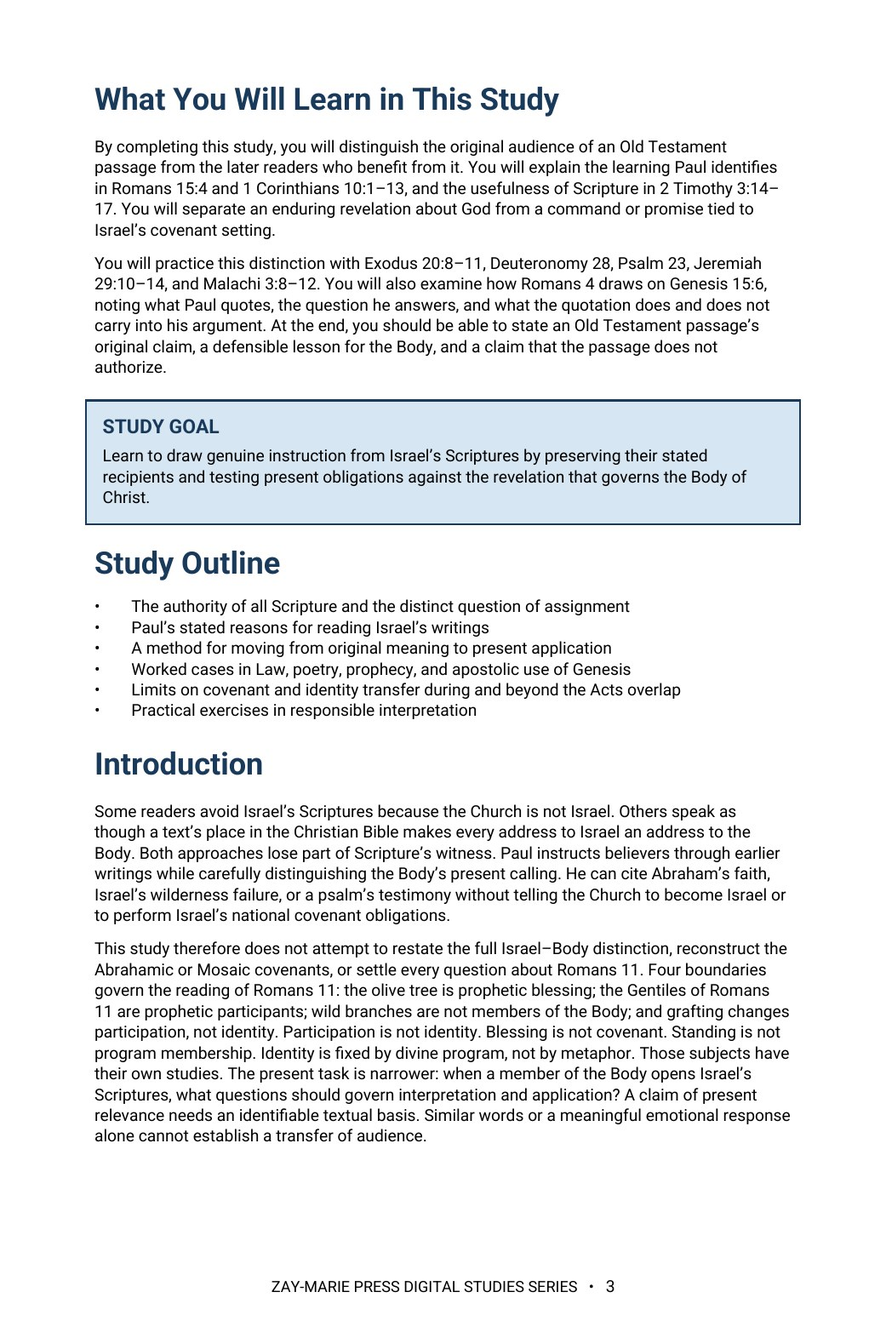
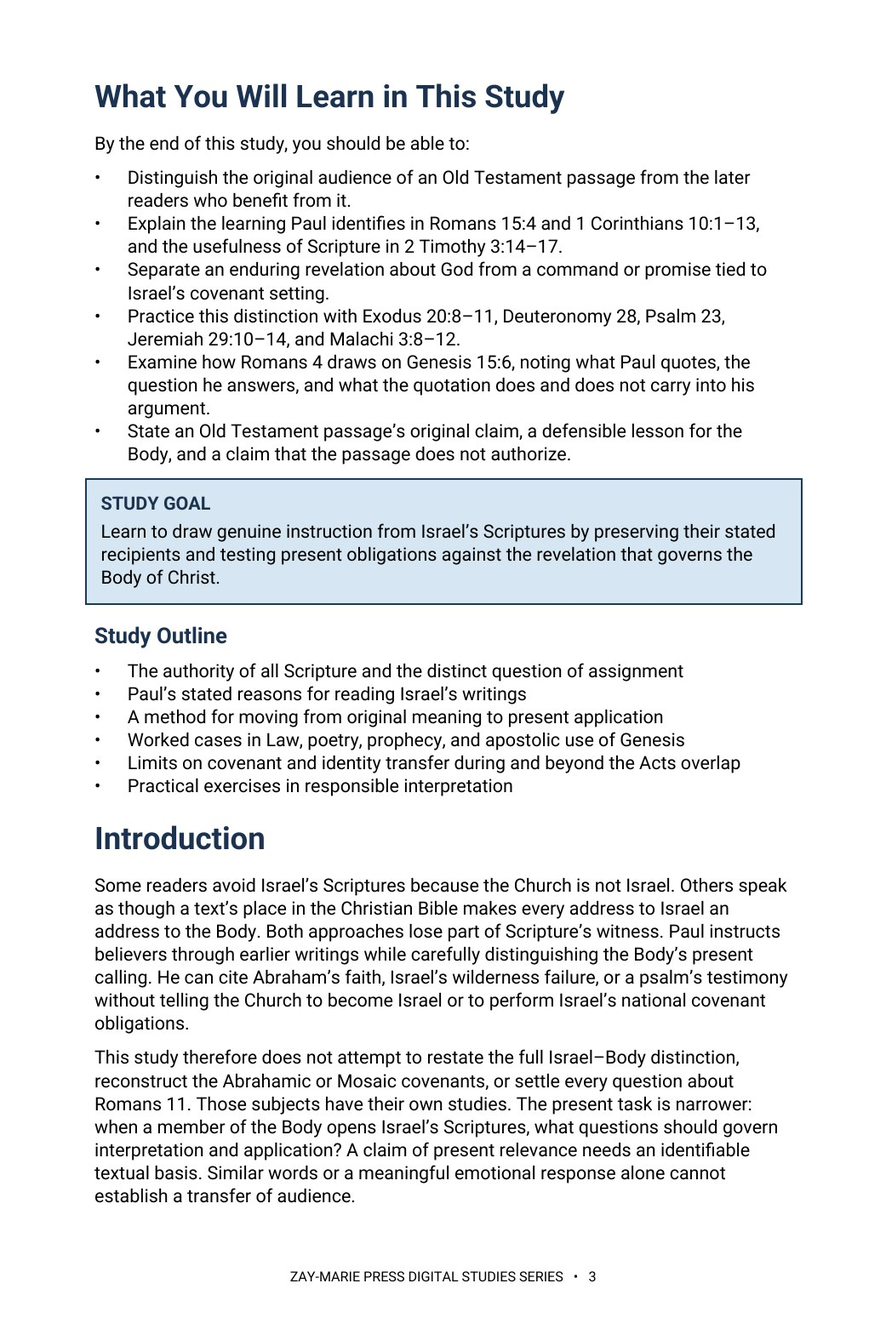
Study 39: page count 22, rebuilt preview pages and trackers for Roboto 10 pt build on current page
Claude-Session: https://claude.ai/code/session_01HC7bs9KYP2scp4hCL6DkTp

Changed region(s): [[0.0922, 0.0615, 0.9222, 0.9219], [0.3074, 0.9526, 0.6455, 0.9834]]

diff --git a/study-39-the-churchs-relationship-to-israels-scriptures.html b/study-39-the-churchs-relationship-to-israels-scriptures.html
@@ -2,13 +2,13 @@
 <html lang="en"><head><meta charset="utf-8"><meta name="viewport" content="width=device-width,initial-scale=1"><title>The Church’s Relationship to Israel’s Scriptures | Zay-Marie Press</title><meta name="description" content="Learn how the Body reads and applies Israel’s Scriptures without transferring Israel’s identity, covenants, or promises. Preview Study 39 from Zay-Marie Press."><link rel="stylesheet" href="styles.css?v=20260921-4"><link rel="icon" type="image/png" href="assets/zay-marie-press-favicon.png"><style>
 .study-detail-page{background:#fff;color:#252525}.detail-hero{background:linear-gradient(135deg,#f8f5ec,#e3ece2);padding:58px 0}.detail-hero-grid{display:grid;grid-template-columns:minmax(250px,.72fr) minmax(0,1.28fr);gap:58px;align-items:center}.detail-cover{max-width:390px;margin:auto}.detail-cover img{display:block;width:100%;height:auto;box-shadow:0 14px 36px rgba(8,45,69,.18)}.detail-hero h1{font-size:clamp(2.7rem,5vw,4.7rem);line-height:1.02;margin:8px 0 10px;color:#143823}.detail-subtitle{font-family:Georgia,serif;font-size:1.35rem;font-weight:700;color:#082d45;margin:0 0 7px}.detail-kicker{font-family:Georgia,serif;font-style:italic;font-size:1.05rem;color:#4a4a44;margin:0 0 22px}.detail-copy{font-size:1.08rem;line-height:1.65;max-width:760px}.detail-buyline{display:flex;align-items:center;gap:18px;flex-wrap:wrap;margin-top:25px}.detail-price{font-family:Georgia,serif;font-size:2rem;font-weight:700;color:#143823}.detail-format,.preview-card .page-no{font-family:Arial,sans-serif;font-size:.76rem;font-weight:700;letter-spacing:.1em;text-transform:uppercase;color:#176b3a}.detail-button{display:inline-block;background:#176b3a;color:#fff;padding:13px 22px;font-family:Arial,sans-serif;font-size:.8rem;font-weight:700;letter-spacing:.07em;text-transform:uppercase}.detail-button.pending{opacity:.72;cursor:default}.detail-section{padding:66px 0}.detail-section.soft{background:#f6f7f2}.detail-section.cream{background:#faf8f2}.detail-section h2{color:#143823;margin:6px 0 18px;font-size:clamp(2rem,3.4vw,3rem)}.detail-section .lead{max-width:920px;font-size:1.1rem;line-height:1.62}.study-distinction{max-width:920px;margin-top:28px;margin-bottom:28px;padding:26px 28px;background:#fff;border:1px solid #d8d1bf;border-left:4px solid #b8871c}.study-distinction h3{margin:0 0 10px;color:#143823}.study-distinction p{margin:0 0 14px;line-height:1.62}.study-distinction a{font-family:Arial,sans-serif;font-weight:700;color:#176b3a;text-decoration:none}.study-points{display:grid;grid-template-columns:repeat(3,1fr);gap:18px;margin-top:28px;margin-bottom:28px}.study-point,.scripture-card,.preview-card,.include-item{background:#fff;border:1px solid var(--line);text-align:left}.study-point{border-top:3px solid #176b3a;padding:22px}.study-point h3{color:#143823;margin:0 0 8px;font-size:1.2rem}.study-point p,.scripture-card p,.preview-card p,.include-item p{margin:0;line-height:1.55}.scripture-grid{display:grid;grid-template-columns:repeat(4,1fr);gap:14px;margin-top:24px;margin-bottom:24px}.scripture-card{padding:22px 20px;color:#143823}.scripture-card h3{margin:0 0 9px;font-family:Georgia,serif;font-size:1rem;line-height:1.35}.scripture-card p{font-size:.94rem;color:#45453f}.excerpt{max-width:900px;margin:28px auto;border-left:4px solid #b8871c;padding:10px 0 10px 28px}.excerpt blockquote{font-family:Georgia,serif;font-size:clamp(1.45rem,2.5vw,2rem);line-height:1.45;color:#143823;margin:0 0 16px}.excerpt p{line-height:1.6;margin:0}.preview-grid{display:grid;grid-template-columns:repeat(2,1fr);gap:20px;margin-top:28px;margin-bottom:28px}.preview-card{padding:18px;min-height:210px;box-shadow:0 7px 20px rgba(20,40,25,.05)}.preview-image-link{display:block;margin:0 0 18px}.preview-image-link img{display:block;width:100%;height:auto;border:1px solid #d8d1bf;box-shadow:0 8px 22px rgba(20,40,25,.1);transition:transform .18s ease,box-shadow .18s ease}.preview-image-link:hover img{transform:translateY(-2px);box-shadow:0 11px 28px rgba(20,40,25,.16)}.preview-card h3{color:#143823;margin:8px 0 10px}.preview-instruction{margin:10px 0 0;font-family:Arial,sans-serif;font-size:.78rem;letter-spacing:.04em;color:#5b5b55}.includes-grid{display:grid;grid-template-columns:repeat(4,1fr);gap:14px;margin-top:26px}.include-item{padding:22px 20px;color:#143823}.include-item h3{margin:0 0 9px;font-family:Arial,sans-serif;font-size:.86rem;line-height:1.35;letter-spacing:.02em}.include-item p{font-size:.94rem;color:#45453f}.final-buy{background:#082d45;color:#fff;border-top:4px solid #b8871c;padding:42px 48px;display:grid;grid-template-columns:1fr auto;gap:36px;align-items:center}.final-buy .eyebrow,.final-buy h2,.final-buy .detail-price{color:#fff}.final-buy h2{margin:7px 0 6px}.final-buy p{margin:0}.final-offer{text-align:center}.back-link{display:inline-block;margin-top:18px;color:#143823;font-family:Arial,sans-serif;font-weight:700;text-decoration:none}.preview-lightbox{position:fixed;inset:0;z-index:10000;display:none;align-items:flex-start;justify-content:center;background:rgba(8,22,16,.88);padding:24px;overflow:auto}.preview-lightbox.open{display:flex}.preview-lightbox img{display:block;width:auto;height:auto;max-width:none;box-shadow:0 18px 55px rgba(0,0,0,.4);background:#fff}.preview-lightbox-close{position:fixed;top:18px;right:24px;z-index:10001;width:46px;height:46px;border:1px solid rgba(255,255,255,.65);border-radius:50%;background:rgba(0,0,0,.55);color:#fff;font:32px/1 Arial,sans-serif;cursor:pointer}@media(max-width:900px){.detail-hero-grid{grid-template-columns:1fr;gap:34px}.detail-cover{max-width:330px}.study-points{grid-template-columns:repeat(2,1fr)}.scripture-grid,.includes-grid{grid-template-columns:repeat(2,1fr)}.preview-grid,.final-buy{grid-template-columns:1fr}.final-offer{text-align:left}}@media(max-width:560px){.detail-hero{padding:42px 0}.detail-section{padding:50px 0}.study-points,.scripture-grid,.includes-grid{grid-template-columns:1fr}.final-buy{padding:32px 24px}.detail-buyline{align-items:flex-start;flex-direction:column;gap:8px}.preview-lightbox{padding:58px 10px 24px}.preview-lightbox img{width:100%;max-width:100%;height:auto}}</style></head><body class="study-detail-page">
 <header class="site-header"><div class="wrap nav"><a class="logo" href="index.html" aria-label="Zay-Marie Press home"><img src="assets/zay-marie-press-logo-hq.png" alt="Zay-Marie Press" width="420" height="238"></a><button class="menu-toggle" type="button" aria-expanded="false" aria-controls="primary-nav">MENU</button><nav aria-label="Primary navigation" class="primary-nav" id="primary-nav"><a href="index.html">HOME</a><a href="books.html">BOOKS</a><a href="series.html">SERIES</a><a class="active" aria-current="page" href="digital-studies.html">DIGITAL STUDIES</a><a href="biblical-hermeneutics-course.html">COURSE</a><a href="about.html">ABOUT</a><a href="resources.html">RESOURCES</a><a href="contact.html">CONTACT</a></nav></div></header><main>
-<section class="detail-hero"><div class="wrap detail-hero-grid"><div class="detail-cover"><picture><source srcset="assets/study-39-cover.webp" type="image/webp"><img src="assets/study-39-cover.jpg" alt="The Church’s Relationship to Israel’s Scriptures cover"></picture></div><div><div class="eyebrow">STUDY 39 · DIGITAL STUDY</div><h1>The Church’s Relationship to Israel’s Scriptures</h1><p class="detail-subtitle">How the Body Reads, Learns from, and Applies the Old Testament Without Identity Transfer</p><p class="detail-kicker">A focused method for receiving Israel’s Scriptures as inspired instruction</p><p class="detail-copy">Paul says earlier writings were given for our learning, and Israel’s history warns and instructs believers. Those benefits do not make the Body the original recipient of Israel’s covenants, national promises, or prophetic restoration.</p><p class="detail-copy">This study works through Law, poetry, prophecy, and Paul’s use of Genesis. For each passage, identify its first audience, the lesson Scripture warrants, and the present instruction that governs the Body.</p><div class="detail-buyline"><span class="detail-price">$5.99</span><span class="detail-format">Digital PDF · 16 Pages</span><span class="detail-button pending" aria-disabled="true">Checkout Coming Soon</span></div></div></div></section>
+<section class="detail-hero"><div class="wrap detail-hero-grid"><div class="detail-cover"><picture><source srcset="assets/study-39-cover.webp" type="image/webp"><img src="assets/study-39-cover.jpg" alt="The Church’s Relationship to Israel’s Scriptures cover"></picture></div><div><div class="eyebrow">STUDY 39 · DIGITAL STUDY</div><h1>The Church’s Relationship to Israel’s Scriptures</h1><p class="detail-subtitle">How the Body Reads, Learns from, and Applies the Old Testament Without Identity Transfer</p><p class="detail-kicker">A focused method for receiving Israel’s Scriptures as inspired instruction</p><p class="detail-copy">Paul says earlier writings were given for our learning, and Israel’s history warns and instructs believers. Those benefits do not make the Body the original recipient of Israel’s covenants, national promises, or prophetic restoration.</p><p class="detail-copy">This study works through Law, poetry, prophecy, and Paul’s use of Genesis. For each passage, identify its first audience, the lesson Scripture warrants, and the present instruction that governs the Body.</p><div class="detail-buyline"><span class="detail-price">$5.99</span><span class="detail-format">Digital PDF · 22 Pages</span><span class="detail-button pending" aria-disabled="true">Checkout Coming Soon</span></div></div></div></section>
 <section class="detail-section"><div class="wrap"><div class="eyebrow">ABOUT THIS STUDY</div><h2>Profitable Scripture With Its Audience Intact</h2><p class="lead">The Church should read Israel’s Scriptures closely. They reveal God’s character and works, testify to Christ, expose sin, and supply hope and warning. Their value is clearest when the reader preserves what God said, to whom He said it, and in what setting.</p><p class="lead">Study 39 gives a repeatable way to move from original meaning to valid present application. It tests common claims drawn from Sabbath, national blessing, exile, tithes, and the Psalms against Paul’s actual uses and governing instruction.</p><p class="lead">This is not a study of the Abrahamic covenant’s own terms, which Study 17 establishes in Genesis, nor of Paul’s specific uses of Abraham’s history, which Study 40 traces as a worked example, nor of the parallel question for Acts narratives, which Study 38 answers on its own terms. Its task is broader: to supply the repeatable method itself — preserving what God said, to whom, and in what setting — that each of those studies applies to its own passage.</p><div class="study-distinction"><h3>How These Studies Relate</h3><p>Study 39 gives a method for learning from Israel’s Scriptures while retaining their original audience and covenant setting.</p><p><a href="study-17-the-abrahamic-covenant.html">Study 17 — The Abrahamic Covenant</a> Practice the method on the Abrahamic covenant in Genesis: identify its line, national promises, and blessing before claiming present application.</p><p><a href="study-40-who-is-abrahams-seed.html">Study 40 — Who Is Abraham’s Seed?</a> See how Paul uses that history in Romans and Galatians; his specific arguments provide a worked example of learning from Israel’s Scriptures without transferring Israelite identity.</p><p><a href="study-38-why-acts-is-not-a-universal-experience-manual.html">Study 38 — Why Acts Is Not a Universal Experience Manual</a> Apply related audience and authority questions to events narrated in Acts, where the issue is whether an action creates a present obligation.</p><p class="connection-guide-link"><a href="study-connections.html#study-39">Explore the full connection guide for Study 39 →</a></p></div></div></section>
 <section class="detail-section soft"><div class="wrap"><div class="eyebrow">WHAT YOU’LL STUDY</div><h2>Move From Original Meaning to Warranted Application</h2><div class="study-points"><div class="study-point"><h3>All Scripture Is Profitable</h3><p>Read Romans 15:4, 1 Corinthians 10, and 2 Timothy 3 for the particular benefits Paul draws from earlier writings.</p></div><div class="study-point"><h3>Original Audience and Genre</h3><p>Identify the people, covenant setting, literary form, and stated claim before moving to present application.</p></div><div class="study-point"><h3>Law and National Promise</h3><p>Examine Sabbath observance and Deuteronomy’s national blessings by tracing who is addressed and what conditions each text names.</p></div><div class="study-point"><h3>Poetry and Prophetic Hope</h3><p>Learn from Psalm 23 and Jeremiah’s letter while respecting David’s voice and Judah’s promised return.</p></div><div class="study-point"><h3>Paul’s Use of Abraham</h3><p>Follow Romans 4 and Galatians 3 where Paul draws a point about faith and blessing from Genesis.</p></div><div class="study-point"><h3>Responsible Application</h3><p>State an original claim, valid lesson, governing present instruction, and excluded identity or promise transfer.</p></div></div></div></section>
 <section class="detail-section cream"><div class="wrap"><div class="eyebrow">KEY SCRIPTURES</div><h2>Compare the Earlier Text and Its Apostolic Use</h2><div class="scripture-grid"><div class="scripture-card"><h3>2 Timothy 3:14–17</h3><p>All Scripture is God-breathed and profitable for teaching, correction, and training.</p></div><div class="scripture-card"><h3>Romans 15:1–7</h3><p>Earlier writings furnish learning, endurance, encouragement, and hope within Paul’s argument.</p></div><div class="scripture-card"><h3>1 Corinthians 10:1–14</h3><p>Israel’s wilderness history warns the Corinthians without changing their identity.</p></div><div class="scripture-card"><h3>Exodus 20:8–11; 31:12–17</h3><p>The Sabbath command and sign have an identified covenant audience.</p></div><div class="scripture-card"><h3>Deuteronomy 28</h3><p>National blessings and curses must be read within Moses’ address to Israel.</p></div><div class="scripture-card"><h3>Psalm 23; Jeremiah 29:4–14</h3><p>Poetic trust and the exiles’ promised return provide distinct kinds of instruction.</p></div><div class="scripture-card"><h3>Genesis 15:6; Romans 4:1–12</h3><p>Paul draws a precise argument about faith and righteousness from Abraham’s history.</p></div><div class="scripture-card"><h3>Malachi 3:8–12; 2 Corinthians 8–9</h3><p>Compare Israel’s tithe and storehouse setting with Paul’s instruction about giving.</p></div></div></div></section>
 <section class="detail-section"><div class="wrap"><div class="eyebrow">FROM THE STUDY</div><h2>Written for Our Learning</h2><div class="excerpt"><blockquote>“A passage may be written for our learning without being addressed to us as its original covenant recipient.”</blockquote><p>The study draws genuine instruction from earlier writings while keeping each passage’s original claim and audience visible.</p></div></div></section>
 <section class="detail-section soft"><div class="wrap"><div class="eyebrow">A LOOK INSIDE</div><h2>Preview the Study Before You Purchase</h2><p class="preview-instruction">Click any page to enlarge it for reading.</p><div class="preview-grid"><div class="preview-card"><a class="preview-image-link" data-preview-lightbox href="assets/study-39-page-2.jpg"><img src="assets/study-39-page-2.jpg" alt="Study 39 interior preview — page 2, table of contents"></a><div class="page-no">Page 2</div><h3>Table of Contents</h3><p>See the full structure of the study, from the introduction through the final synthesis.</p></div><div class="preview-card"><a class="preview-image-link" data-preview-lightbox href="assets/study-39-page-3.jpg"><img src="assets/study-39-page-3.jpg" alt="Study 39 interior preview — page 3, what you will learn"></a><div class="page-no">Page 3</div><h3>What You Will Learn</h3><p>See the reader outcomes, central aim, and route through Israel’s Scriptures.</p></div><div class="preview-card"><a class="preview-image-link" data-preview-lightbox href="assets/study-39-page-5.jpg"><img src="assets/study-39-page-5.jpg" alt="Study 39 interior preview — page 5, a passage-by-passage route"></a><div class="page-no">Page 5</div><h3>A Passage-by-Passage Route</h3><p>Follow the questions that move from a passage’s own claim to a warranted present lesson.</p></div></div></div></section>
 <section class="detail-section"><div class="wrap"><div class="eyebrow">WHAT’S INCLUDED</div><h2>A Focused Study for<br>Careful Reading and Responsible Application</h2><div class="includes-grid"><div class="include-item"><h3>Focused Biblical Study</h3><p>A sustained treatment of how Israel’s Scriptures instruct the Body without changing their original recipients.</p></div><div class="include-item"><h3>Twelve Teaching Sections</h3><p>Follow the argument from scriptural authority through Law, poetry, prophecy, Pauline use, and a reading procedure.</p></div><div class="include-item"><h3>Worked Passage Readings</h3><p>Apply the method to Sabbath, Deuteronomy 28, Psalm 23, Jeremiah 29, Abraham, and giving.</p></div><div class="include-item"><h3>Apostolic Controls</h3><p>Test proposed present obligations against the use Paul actually makes of earlier writings.</p></div><div class="include-item"><h3>Key Distinctions</h3><p>Keep audience, authority, participation, analogy, and hope clear as passages move into application.</p></div><div class="include-item"><h3>Scripture-Tracing Exercise</h3><p>Read paired passages in context and record both warranted lessons and excluded transfers.</p></div><div class="include-item"><h3>Guided Further Study</h3><p>Investigate additional passages with assigned observations and concise written conclusions.</p></div><div class="include-item"><h3>Digital PDF</h3><p>A formatted resource for careful reading, teaching preparation, and personal study.</p></div></div></div></section>
-<section class="detail-section cream"><div class="wrap"><div class="final-buy"><div><div class="eyebrow">STUDY 39 · DIGITAL STUDY</div><h2>The Church’s Relationship to Israel’s Scriptures</h2><p>Digital PDF · 16 Pages · For personal use</p></div><div class="final-offer"><div class="detail-price">$5.99</div><span class="detail-button pending" aria-disabled="true">Checkout Coming Soon</span></div></div><a class="back-link" href="digital-studies.html">← Back to All Digital Studies</a></div></section><section class="study-method-course-bridge"><div class="wrap"><div class="study-method-course-panel"><div><div class="eyebrow">BUILD THE INTERPRETIVE METHOD</div><h2>Want More Than a Focused Study?</h2><p>Digital Studies examine particular biblical subjects and difficult passages. The 40-lesson Biblical Hermeneutics course teaches a complete, repeatable method for establishing meaning in context, determining proper assignment, and making responsible application.</p></div><a class="btn btn-primary" href="biblical-hermeneutics-course.html">BIBLICAL HERMENEUTICS COURSE</a></div></div></section>
+<section class="detail-section cream"><div class="wrap"><div class="final-buy"><div><div class="eyebrow">STUDY 39 · DIGITAL STUDY</div><h2>The Church’s Relationship to Israel’s Scriptures</h2><p>Digital PDF · 22 Pages · For personal use</p></div><div class="final-offer"><div class="detail-price">$5.99</div><span class="detail-button pending" aria-disabled="true">Checkout Coming Soon</span></div></div><a class="back-link" href="digital-studies.html">← Back to All Digital Studies</a></div></section><section class="study-method-course-bridge"><div class="wrap"><div class="study-method-course-panel"><div><div class="eyebrow">BUILD THE INTERPRETIVE METHOD</div><h2>Want More Than a Focused Study?</h2><p>Digital Studies examine particular biblical subjects and difficult passages. The 40-lesson Biblical Hermeneutics course teaches a complete, repeatable method for establishing meaning in context, determining proper assignment, and making responsible application.</p></div><a class="btn btn-primary" href="biblical-hermeneutics-course.html">BIBLICAL HERMENEUTICS COURSE</a></div></div></section>
 </main>
 <div class="preview-lightbox" id="preview-lightbox" role="dialog" aria-modal="true" aria-label="Expanded study preview"><button class="preview-lightbox-close" type="button" aria-label="Close preview">×</button><img id="preview-lightbox-image" alt=""></div><footer class="site-footer"><div class="wrap footer-grid"><div class="footer-about"><h3>Zay-Marie Press</h3><p class="footer-tagline"><em>Where the Bible Means What It Says.</em></p><p>Zay-Marie Press is a Christian theological publisher dedicated to producing doctrinally precise, carefully structured biblical resources that equip pastors, teachers, and serious students with clarity, depth, and Scripture-anchored truth.</p><p><a href="https://zaymariepress.com">zaymariepress.com</a><br><a href="mailto:info@zaymariepress.com">info@zaymariepress.com</a></p></div><div class="footer-column"><h3>Explore</h3><div class="footer-links-stacked"><a href="books.html">Books</a><br><a href="series.html">Series</a><br><a href="biblical-hermeneutics-course.html">Course</a><br><a href="digital-studies.html">Digital Studies</a><br><a href="resources.html">Resources</a><br><a href="bible-book-summaries.html">Bible Book Summaries</a><br><a href="doctrinal-packets.html">Doctrinal Packets</a><br><a href="historical-drift.html">Historical Drift</a><br><a href="about.html">About</a><br><a href="contact.html">Contact</a></div></div><div class="footer-column"><h3>Reader Support</h3><div class="footer-links-stacked"><a href="reader-support.html#faq">FAQ</a><br><a href="reader-support.html#shipping-returns">Shipping &amp; Returns</a><br><a href="reader-support.html#digital-downloads">Digital Downloads</a><br><a href="reader-support.html#contact-support">Contact Support</a></div></div><div class="footer-column"><h3>Acts Overlap</h3><p><strong>Acts Overlap Theology Series</strong></p><p><em>Two Distinct Streams. One Overlap.</em></p><p><a href="series.html">Series Overview</a></p></div></div><div class="wrap footer-bottom">© 2026 Zay-Marie Press. All rights reserved.</div></footer><script src="site.js"></script><script>const lightbox=document.getElementById('preview-lightbox'),lightboxImage=document.getElementById('preview-lightbox-image'),closeLightbox=()=>{lightbox.classList.remove('open');lightboxImage.src='';};document.querySelectorAll('[data-preview-lightbox]').forEach(link=>link.addEventListener('click',event=>{event.preventDefault();lightboxImage.src=link.href;lightboxImage.alt=link.querySelector('img').alt;lightbox.classList.add('open');}));document.querySelector('.preview-lightbox-close').addEventListener('click',closeLightbox);lightbox.addEventListener('click',event=>{if(event.target===lightbox)closeLightbox();});document.addEventListener('keydown',event=>{if(event.key==='Escape')closeLightbox();});</script></body></html>

diff --git a/site.js b/site.js
@@ -62,7 +62,7 @@ const resourceModal=document.querySelector('#resource-modal'), resourceModalTitl
 if(resourceModal&&resourceModalTriggers.length){const closeResourceModal=()=>{resourceModal.hidden=true;document.body.classList.remove('resource-modal-open');lastResourceTrigger?.focus();};resourceModalTriggers.forEach(trigger=>trigger.addEventListener('click',()=>{lastResourceTrigger=trigger;if(resourceModalTitle)resourceModalTitle.textContent=trigger.dataset.title||'Resource';if(resourceModalDescription)resourceModalDescription.textContent=trigger.dataset.description||'';if(resourceModalLink){resourceModalLink.href=trigger.dataset.href||'#';resourceModalLink.textContent=trigger.dataset.linkText||'OPEN RESOURCE';}resourceModal.hidden=false;document.body.classList.add('resource-modal-open');resourceModalClose?.focus();}));resourceModalClose?.addEventListener('click',closeResourceModal);resourceModal.addEventListener('click',e=>{if(e.target===resourceModal)closeResourceModal();});document.addEventListener('keydown',e=>{if(e.key==='Escape'&&!resourceModal.hidden)closeResourceModal();});}
 
 /* Display the verified final-PDF page count at the primary purchase decision point. */
-const digitalStudyPageCounts={1:17,2:19,3:16,4:17,5:15,6:15,7:14,8:13,9:15,10:20,11:15,12:15,13:18,14:15,15:15,16:16,17:17,18:18,19:16,20:15,21:16,22:15,23:14,24:16,25:17,26:16,27:16,28:17,29:19,30:18,31:18,32:19,33:18,34:20,35:22,36:20,37:21,38:22,39:16,40:16,41:16,42:17,43:17,44:19,45:19,46:20,47:19,48:18,49:20,50:19,51:20,52:19,53:19,54:17,55:20,56:20,57:20,58:19,59:20,60:15,61:16,62:18,63:17,64:17,65:16,66:16,67:17,68:16,69:17,70:17,71:16};
+const digitalStudyPageCounts={1:17,2:19,3:16,4:17,5:15,6:15,7:14,8:13,9:15,10:20,11:15,12:15,13:18,14:15,15:15,16:16,17:17,18:18,19:16,20:15,21:16,22:15,23:14,24:16,25:17,26:16,27:16,28:17,29:19,30:18,31:18,32:19,33:18,34:20,35:22,36:20,37:21,38:22,39:22,40:16,41:16,42:17,43:17,44:19,45:19,46:20,47:19,48:18,49:20,50:19,51:20,52:19,53:19,54:17,55:20,56:20,57:20,58:19,59:20,60:15,61:16,62:18,63:17,64:17,65:16,66:16,67:17,68:16,69:17,70:17,71:16};
 const digitalStudyMatch=window.location.pathname.match(/\/study-(\d+)-/i);
 const digitalStudyFormat=document.querySelector('.detail-hero .detail-format');
 if(digitalStudyMatch&&digitalStudyFormat){const studyNumber=Number(digitalStudyMatch[1]),pageCount=digitalStudyPageCounts[studyNumber];if(pageCount)digitalStudyFormat.textContent=`Digital PDF · ${pageCount} Pages`;}

diff --git a/CLAUDE.md b/CLAUDE.md
@@ -23,7 +23,7 @@ These are kept in the repo at `controlling-documents/` and are the current versi
 - As of v1.50 (publisher directive, 2026-10-03), the **What You Will Learn in This Study** section is always bulleted, never set as running paragraphs, written into this file in the same pass (Master Standard Section 3 item 4, Section 6 structure line, Section 22): a list of bullet points, each describing one process, textual marker or interpretive discipline the reader will practice (Section 17 still governs what they may say); at most one short lead-in line may stand above the bullets (for example, “By the end of this study, you should be able to:”); the Study Goal callout and the Study Outline keep their own forms. It governs every new study and every study rebuilt or retrofitted from now on; earlier studies take it when reopened or when the publisher directs. In every study check (Step 1), report whether the section is bulleted. First applied to Study 43.
 **`controlling-documents/Digital_Studies_Relationship_Map_v1.39.md`** — records each study's distinct subject, its related studies, the eight priced six-study collections, the Paul's Missionary Journeys cross-reference map, and the five primary catalog categories (currently version 1.39, covers Studies 1–71; update it as new studies publish, bump the version number, rename the file to match, and log the change in its own version-history table — mirroring the Master Standard's `_vX.Y` filename convention). Check a proposed topic against it before recommending or writing a new study. (2026-09-28: the file was missing from this repo despite this note referencing it; replaced from the publisher's copy and bumped v1.15→v1.25 in the same pass. If this note ever again points to a version not present under `controlling-documents/`, ask the publisher for a copy rather than proceeding without the check.)
 - **`controlling-documents/Digital_Studies_Category_Standard_v1.1.md`** — FINAL and binding (publisher, 2026-10-01): the rules for the five primary catalog categories (Foundations, Israel & Prophecy, Body of Christ, Passages, Doctrinal Themes), the ordered decision procedure for new studies, the precedents, all 71 fixed assignments, and the cover-label form for each category. Read it before placing any card or cover label. Do not ask the publisher where a study belongs; apply the procedure and state the result. Only the publisher changes a ruling; then bump this Standard's version and filename, re-letter the cover, and update the Relationship Map.
-- **`controlling-documents/Doctrinal_Upgrade_Retrofit_Plan_v1.117.md`** — working tracker for retrofitting Studies 1–59 to the 2026-10-02 doctrinal upgrade (Framework/PAM v1.1, Master Standard v1.40, Rules 7–17): withdrawn-wording search keys, impact tiers, waves and the per-study method. Read it before continuing the retrofit in any session; update status, bump the version and rename the file as work proceeds.
+- **`controlling-documents/Doctrinal_Upgrade_Retrofit_Plan_v1.118.md`** — working tracker for retrofitting Studies 1–59 to the 2026-10-02 doctrinal upgrade (Framework/PAM v1.1, Master Standard v1.40, Rules 7–17): withdrawn-wording search keys, impact tiers, waves and the per-study method. Read it before continuing the retrofit in any session; update status, bump the version and rename the file as work proceeds.
 - **`controlling-documents/Doctrinal_Packet_Standard_v0.3.md`** — Doctrinal Packet Standard (DRAFT; §7 approved). Governs the separate Doctrinal Packets product strand (5-page interpretive PDFs per Bible book — a print-friendly cover as page 1 plus 4 content pages, $2.99, KJV, pilot: Genesis, live at `packet-genesis.html`, hub `doctrinal-packets.html`; site pages say "5 Pages", cover styles live in `packets.css`, Old Testament blue and New Testament soft pale green, hub listed in Bible order). **Preview rule (publisher directive, 2026-09-29, packets only):** previews show about one page's worth in two cropped views (top of page 1 through the anchor texts; the chart section) — never the exegesis, architecture, Mystery contrast, logic chain, outline, or closing. Master Standard §16/§17 still govern Digital Studies. Bump the version and rename the file as the Standard is finalized.
 - **`controlling-documents/Preview_Page_Spoiler_Retrofit_Audit_v1.4.md`** — working tracker for the Studies 1–60 preview-page conclusion-spoiler retrofit (see the section below). Read it before continuing that audit in any session; update its status fields and changelog, bump the version, and rename the file to match as the audit proceeds — same `_vX.Y` convention as the other controlling documents. As of v1.1, the website-side half was DONE: all 60 studies' "What You'll Study" text was judged against the rule (methodology documented in the file) and 22 points across 11 studies were rewritten and pushed; an unrelated Study 22 content bug (Study 21's content had leaked into it) was also found and fixed. As of v1.2, the publisher supplied Studies 1–60's interior production PDFs and the interior-PDF half was also surveyed (read-only): 10 studies (37, 41, 45, 47, 48, 49, 51, 52, 53, 54) were found to have at least one interior "What You Will Learn" violation, 50 studies were confirmed compliant, and the orphaned `assets/study-45-sanctification-under-grace.docx` (removed from the repo per the publisher in v1.0) was confirmed word-for-word identical to Study 45's actual production interior PDF content. As of v1.3, the publisher supplied editable DOCX sources for all 10 violating studies; all 15 violating points were rewritten and approved, delivered as corrected final PDFs, and — along the way — a second defect was found and fixed (Studies 47 and 48's source DOCX still had an unintegrated cover placeholder despite both being long-published live with real covers; fixed by inserting the existing approved cover art). The website's "What You Will Learn" preview image (`study-NN-page-3.jpg`) was regenerated from the corrected content for all 10 studies and pushed to `main` (commit `cea1859`), verified against a fresh clone. **The website side of this audit is now fully compliant for all 60 studies.** Outstanding: the publisher's purchasable interior PDF files themselves have corrected versions delivered, but distribution to existing purchasers was decided by the publisher on 2026-09-29: silent swap of the files behind the existing downloads, no reissue notice (recorded in the v1.4 changelog entry; the product files are not in this repo).
 

diff --git a/controlling-documents/Doctrinal_Upgrade_Retrofit_Plan_v1.118.md b/controlling-documents/Doctrinal_Upgrade_Retrofit_Plan_v1.118.md
@@ -210,3 +210,4 @@ Working tracker for correcting published studies to the Framework/PAM v1.1, Mast
 - v1.115 (2026-10-04): Study 36 rebuilt in Roboto at 10 pt on the current page, 20 pages (was 16 on the old 432×648 page at 8 pt). Romans 11 triad and 'Identity is fixed by divine program, not by metaphor.' added after the Romans 9–11 paragraph; Acts 28 wording conformed with the suspension-boundary sentence; 'the common ground of faith' (Romans 3:29–30 paragraph) replaced under Rule 19 (publisher-approved); WYWL, overlap, remnant/Body and Galatians 3 wording already conformed. Preview 3 moved from page 5 to page 6 (category table). Closes the Romans 11 depth item for Study 36.
 - v1.116 (2026-10-04): Study 37 rebuilt in Roboto at 10 pt on the current page, 21 pages (was 16 on the old 432×648 page at 8 pt). Withdrawn wording removed: Gal 6:16 'believing Jews within the Body—Israelites by identity' now 'believing Jews within Israel’s prophetic identity—not members of the Body'; the 'believing Jews are gathered into the Body … identity, not program membership' clarifiers (remnant paragraph and overlap paragraph) replaced by the standing Rule 17 and overlap sentences; Acts 28 'national judicial suspension point' conformed with the suspension-boundary sentence. Orphan imprint (page 21 alone) fixed with layout-only keep-with-next on Final Synthesis so it moves with the imprint; no text changed.
 - v1.117 (2026-10-04): Study 38 rebuilt in Roboto at 10 pt on the current page, 22 pages (was 16 on the old 432×648 page at 8 pt). WYWL running paragraphs replaced by the standard lead-in and six process bullets (publisher-approved, same words); 'read as the Framework assigns them' and two 'framework' phrases reworded; withdrawn 'believing Jews are gathered into the Body … identity, not program membership' replaced by the standing overlap sentence; Rule 17, Rule 18 short form, Rule 11 and Cornelius sentences added; Acts 28 wording conformed (body and Guided Further Study) with the suspension-boundary sentence; Teaching Outline numbered. Layout-only keep-with-next on Final Synthesis (imprint never alone). Preview 3 relabelled 'Audience and Program in Acts'.
+- v1.118 (2026-10-04): Study 39 rebuilt in Roboto at 10 pt on the current page, 22 pages (was 16 on the old 432×648 page at 8 pt; the Scripture-Tracing KJV table runs seven pages). WYWL running paragraphs replaced by the standard lead-in and six process bullets (publisher-approved, same words); two 'The Framework does not assign … as a book' sentences (2 Timothy, Philippians) converted to the reader-facing audience-markers sentence; withdrawn 'Gentiles participate spiritually in that blessing' replaced by the Galatians 3 standing sentence; withdrawn 'believing Jews are gathered into the Body … identity, not program membership' replaced by the standing overlap sentence plus Rule 17; Acts 28 'national judicial suspension' conformed with the suspension-boundary sentence; Teaching Outline numbered; layout-only keep-with-next on Final Synthesis.

diff --git a/controlling-documents/Digital_Studies_PAM_Audit_v1.212.md b/controlling-documents/Digital_Studies_PAM_Audit_v1.212.md
@@ -441,3 +441,4 @@ Study 15 PDF not yet supplied. Typography: none of Studies 2, 3, 6, 8 is in EB G
 - v1.209 (2026-10-04): Study 36 rebuilt in Roboto at 10 pt on the current page, 20 pages; Romans 11 triad added; Acts 28 wording conformed; 'common ground of faith' replaced under Rule 19 (see Retrofit Plan v1.115).
 - v1.210 (2026-10-04): Study 37 rebuilt in Roboto at 10 pt on the current page, 21 pages; withdrawn Gal 6:16 and 'gathered into the Body' wording replaced with standing sentences; Acts 28 wording conformed (see Retrofit Plan v1.116).
 - v1.211 (2026-10-04): Study 38 rebuilt in Roboto at 10 pt on the current page, 22 pages; WYWL bulleted; Framework wording removed; withdrawn 'gathered into the Body' sentence replaced; Rule 17, 18, 11 and Cornelius sentences added; Acts 28 wording conformed (see Retrofit Plan v1.117).
+- v1.212 (2026-10-04): Study 39 rebuilt in Roboto at 10 pt on the current page, 22 pages; WYWL bulleted; Framework anchor wording converted; withdrawn Gal 3 'participate spiritually' and 'gathered into the Body' wording replaced; Acts 28 wording conformed (see Retrofit Plan v1.118).
